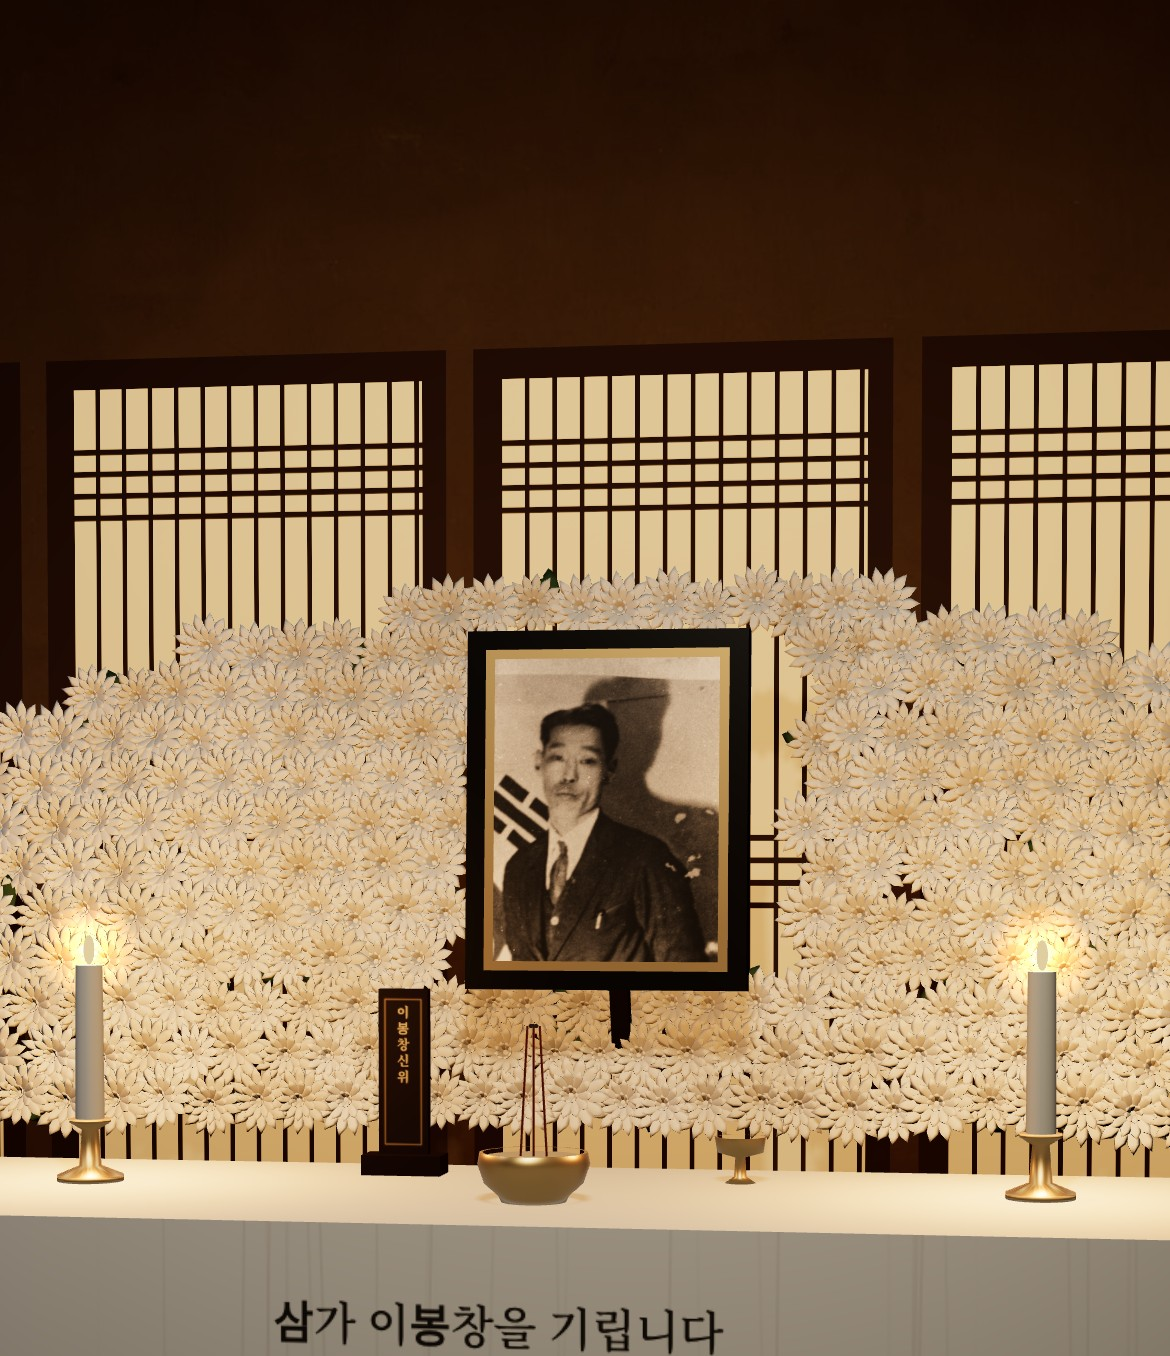
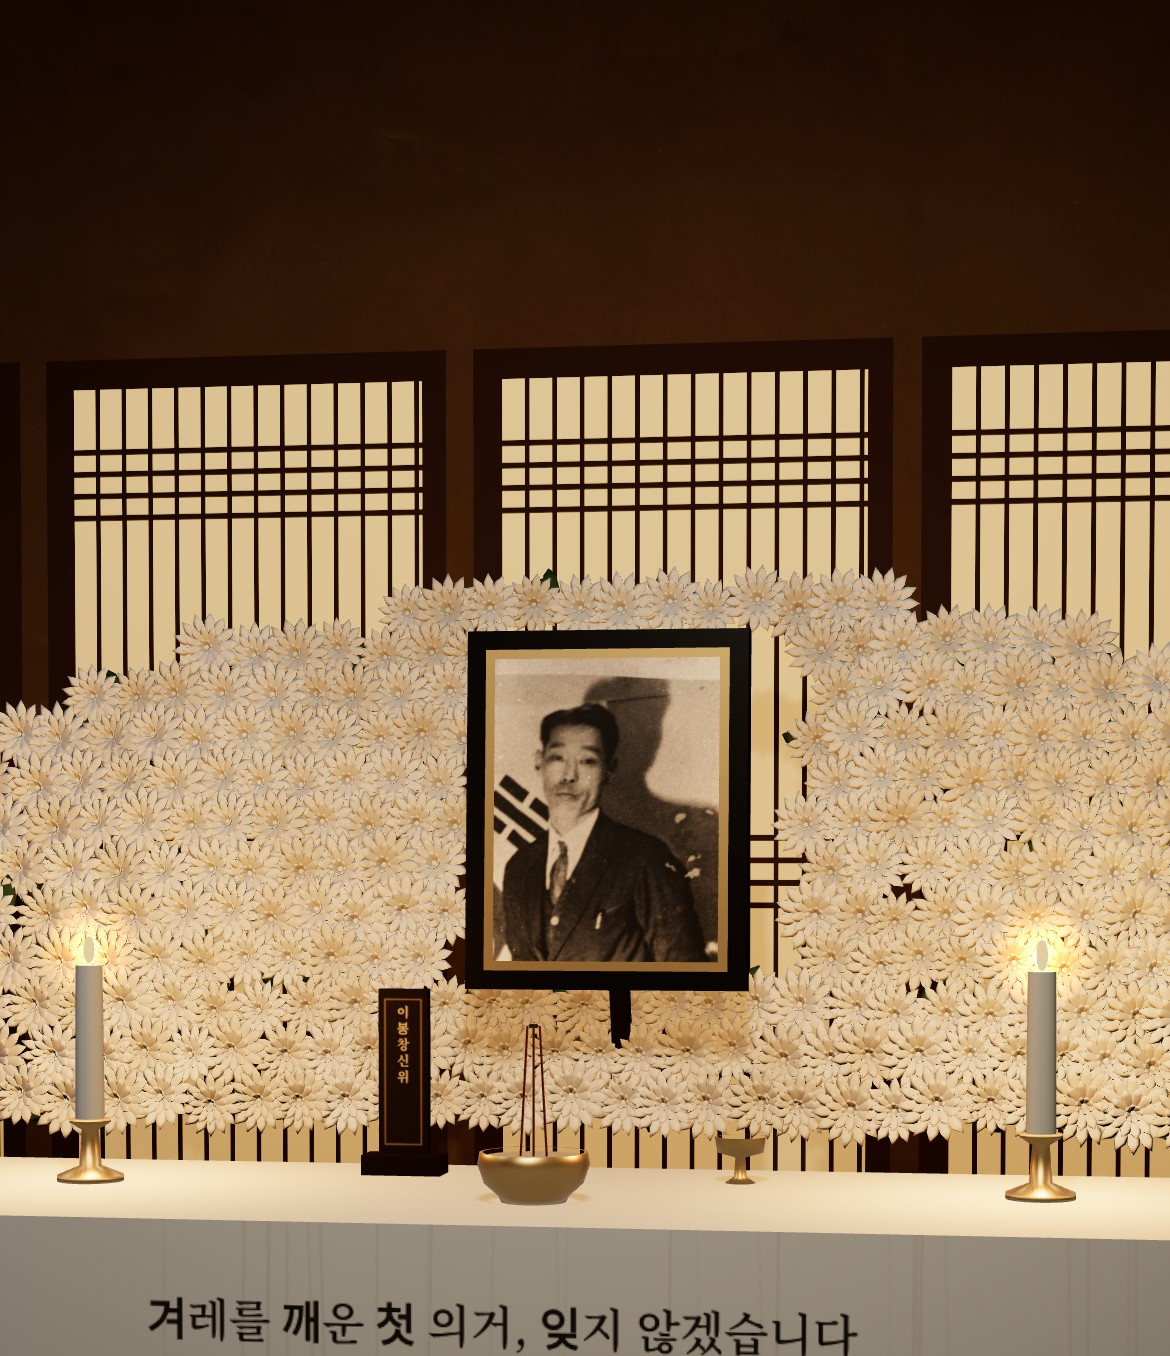
홈페이지 공개 추모관 사진: 분마다 다른 제단 문구로
Claude-Session: https://claude.ai/code/session_01WvjGqiVXugAiAGwkNjewY5

Changed region(s): [[0.1231, 0.9602, 0.7385, 1.0]]

diff --git a/index.html b/index.html
@@ -269,7 +269,7 @@ const box = document.querySelector('.figures');
 box.innerHTML = FIGS.map((f) => `
   <article class="fig" data-view="altar">
     <div class="shot">
-      <img class="altar" src="img/fig/${f.code}-altar.jpg?v=3" alt="${f.name} 님 공개 분향소" loading="lazy" width="390" height="452">
+      <img class="altar" src="img/fig/${f.code}-altar.jpg?v=9" alt="${f.name} 님 공개 분향소" loading="lazy" width="390" height="452">
       <img class="grave" src="img/fig/${f.code}-grave.jpg?v=6" alt="${f.name} 님 공개 장지" loading="lazy" width="390" height="452">
       <div class="toggle" role="group" aria-label="${f.name} 님 화면 고르기">
         <button type="button" data-v="altar" aria-pressed="true">분향소</button>
